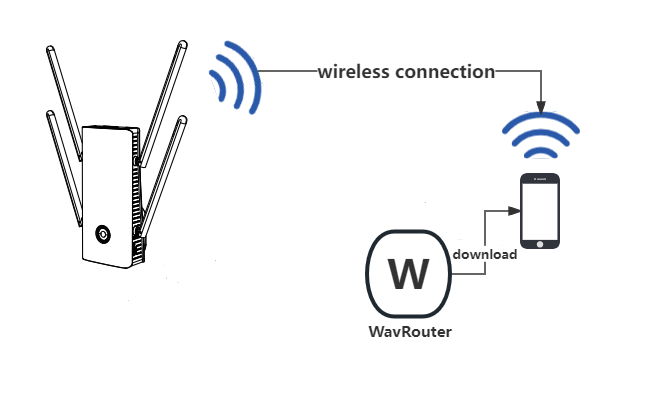
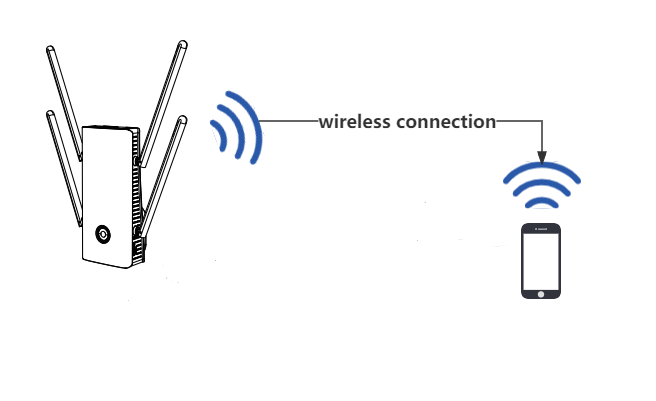
1220 update

Changed region(s): [[0.3049, 0.0898, 0.8841, 0.8379], [0.5793, 0.5686, 0.6707, 0.5985]]

diff --git a/docs/FAQ/indoor_repeater_first_time_setup.md b/docs/FAQ/indoor_repeater_first_time_setup.md
@@ -4,68 +4,13 @@ Here is the first-time wizard for Indoor Repeater. You can refer to this wizard 
 Every product requires initialization settings before use. Before initialization settings, we need to __power on the device__. After powering on, you need to connect the device. The different connection methods are listed below. You can choose any one of them and follow the steps to complete the connection.
 
 !!! note ""
-	=== "WavRouter APP(Phone/Tab)"
+	=== "Phone/Tab"
 		<div style="text-align: center;">
 		<img class="boxshadow" src="/images/indoorphone.png">
 		</div>
 		
-		1 . Scan the QR code on the user manual and __download the WavRouter APP__.
 		
-		2 . After the download is completed, click to __open the WavRouter APP__.
-		
-		<div style="text-align: center;">
-		<img class="boxshadow" src="/images/app001.png">
-		</div>	
-		
-		3 . Click this icon &nbsp;<img class="boxshadow" src="/images/app111.png"> &nbsp;in the upper left corner to open the extension bar, and click __"Login/Registration"__ to enter the login interface.
-		<div style="text-align: center;">
-		<img class="boxshadow" src="/images/app112.png">
-		</div>	
-		<div style="text-align: center;">
-		<img class="boxshadow" src="/images/app002.png">
-		</div>	
-		
-		4 . Click "__Register__" to register a user. There are two ways to register a user. You can choose one of the following to register.
-		!!! note ""
-			=== "Mobile"
-				!!! tip ""
-					Tips : If you have an account, you can click to log in directly.
-				
-				1 . Fill in __your mobile phone number__, click __Get Verification Code__.
-				
-				2 . Fill in the __verification code__ received on your mobile phone in the Verification Code line and __set a login password.__ (it is recommended to use a password with __numbers, uppercase and lowercase letters, and special characters__).
-
-				
-				<div style="text-align: center;">
-				<img class="boxshadow" src="/images/app004.png">
-				</div>	
-
-			=== "E-mail"
-				!!! tip ""
-					Tips : If you have an account, you can click to log in directly.
-	
-				1 . Fill in __your email__, click __Get Verification Code__, 
-				
-				2 . Fill in the __verification code__ received in your email in the Verification Code line and __set a login password__ (it is recommended to use a password with __numbers, uppercase and lowercase letters, and special characters__). 
-				
-				<div style="text-align: center;">
-				<img class="boxshadow" src="/images/app005.png">
-				</div>	
-				
-		5 . After the registration is completed, __log in as the user you just registered__ and click this icon <img class="boxshadow" src="/images/app113.png"> to __return to the main interface__ (as shown below).
-		
-		<div style="text-align: center;">
-		<img class="boxshadow" src="/images/app026.png">
-		</div>
-		<div style="text-align: center;">
-		<img class="boxshadow" src="/images/app025.png">
-		</div>
-		
-		6 .  Click "__Connect__" and it will automatically jump to the WiFi connection interface. You only need to __correctly select your device WiFi__ and __connect__. Like the example below.__(The WiFi name can be found in the user manual or the product bottom label.)__
-		
-		<div style="text-align: center;">
-		<img class="boxshadow" src="/images/app007.png">
-		</div>	
+		1 .  Click Connect and it will automatically jump to the WiFi connection interface. You only need to __correctly select your device WiFi__ and __connect__. Like the example below.__(The WiFi name can be found in the user manual or the product bottom label.)__
 		<div style="text-align: center;">
 		<img class="boxshadow" src="/images/indoor001.png">
 		</div>	
@@ -78,24 +23,24 @@ Every product requires initialization settings before use. Before initialization
 						
 			"XXXX" in SSID is for illustrative purposes only, please refer to the last 4 digits of the MAC address of the label on the bottomof the product.
 
-		7 . After connection, it will __automatically jump__ to the initialization configuration interface.
+		2 . After connection, it will __automatically jump__ to the initialization configuration interface.
 		<div style="text-align: center;">
 		<img class="boxshadow" src="/images/indoor002.png">
 		</div>	
 		
-		8 . Click __"Begin configuration"__ to start the initial configuration of the router.Select the __country and time zone__.
+		3 . Click __"Begin configuration"__ to start the initial configuration of the router.Select the __country and time zone__.
 		
 		<div style="text-align: center;">
 		<img class="boxshadow" src="/images/indoor003.png">
 		</div>	
 		
-		9 . Select a mode for the device. __The default is Repeater Mode__. If you want to choose other modes, please wait __31s__. The following is a list of setting methods for different modes. You can choose any mode you want.
+		4 . Select a mode for the device. __The default is Repeater Mode__. If you want to choose other modes, please wait __31s__. The following is a list of setting methods for different modes. You can choose any mode you want.
 
 		<div style="text-align: center;">
 		<img class="boxshadow" src="/images/indoor004.png">
 		</div>	
 		
-		10 . There are three modes for you to choose from. The Mesh Extender Mode requires no configuration. The device is equivalent to the Mesh Extender Mode in the reset state.
+		5 . There are three modes for you to choose from. The Mesh Extender Mode requires no configuration. The device is equivalent to the Mesh Extender Mode in the reset state.
 		<div style="text-align: center;">
 			<img class="boxshadow" src="/images/indoor024.png">
 		</div>	
@@ -303,7 +248,21 @@ Every product requires initialization settings before use. Before initialization
 		<img class="boxshadow" src="/images/indoor025.png">
 		</div>
 		
-		3 . If you want to change the device mode, you can go to __Advanced > Mode Selection__ and select the mode you want to change.
+		3 . After the initial configuration is refreshed, you need to log in to the management interface again and enter the password you just set to log in.
+		
+		<div style="text-align: center;">
+		<img class="boxshadow" src="/images/indoor012.png">
+		</div>
+		
+		4 . After successful login, you can see the following interface.
+		
+		<div style="text-align: center;">
+		<img class="boxshadow" src="/images/indoor013.png">
+		</div>
+	
+		
+		
+		5 . If you want to change the device mode, you can go to __Advanced > Mode Selection__ and select the mode you want to change.
 		
 		<div style="text-align: center;">
 		<img class="boxshadow" src="/images/indoor026.png">
@@ -311,13 +270,15 @@ Every product requires initialization settings before use. Before initialization
 		<div style="text-align: center;">
 		<img class="boxshadow" src="/images/indoor015.png">
 		</div>
-	=== "Mesh Router Mode"
-		__Mesh Router Mode__  :  Converts a network from a network provider's wired network to a Wi-Fi signal for wireless and wired networking. This mode also supports Mesh networking, which can be set up to pair subroutes to form a networking.
+	=== "Mesh Mode"
+		__Mesh Mode__  :  Converts a network from a network provider's wired network to a Wi-Fi signal for wireless and wired networking. This mode also supports Mesh networking, which can be set up to pair subroutes to form a networking.
 
 	
 		<div style="text-align: center;">
 		<img class="boxshadow" src="/images/indoormesh.png">
 		</div>
+		!!! danger ""
+			__The following are the steps to configure the main route. The sub-route only needs to be in reset state.__
 		
 		1 . After switching to Mesh Router Mode, the __Wan Type__ defaults to __DHCP__ (if you need to use PPPOE and Static IP, you need to set it manually), and set the SSID and password of your WiFi. Click __Save__.(It is recommended that you use a strong password : The password contains uppercase and lowercase letters, numbers, and special symbols such as " __@, ?, *__ ", etc.)		
 		
@@ -330,8 +291,103 @@ Every product requires initialization settings before use. Before initialization
 		<div style="text-align: center;">
 		<img class="boxshadow" src="/images/indoor025.png">
 		</div>
+		
+		3 . After the initial configuration is refreshed, you need to log in to the management interface again and enter the password you just set to log in.
+		
+		<div style="text-align: center;">
+		<img class="boxshadow" src="/images/indoor012.png">
+		</div>
+		
+		4 . After successful login, you can see the following interface.
+		
+		<div style="text-align: center;">
+		<img class="boxshadow" src="/images/indoor013.png">
+		</div>
 
-		3 . If you want to change the device mode, you can go to __Advanced > Mode Selection__ and select the mode you want to change.
+		5 . Mesh pairing. There are two ways to perform mesh pairing. It is recommended that you use the first method for pairing.
+		!!! note ""
+			=== "Mesh button for pairing (highly recommended)"
+				
+				1 . __Power on other Mesh routers__, and other routers must be in __reset state__ (press the reset button for more than six seconds to reset).
+				
+				2 . Press and hold the __"WPS"__ button of the main router for 2s. After pressing, the indicator light of the Mesh route flashes blue slowly.
+				
+				3 . Within 2 minutes, press and hold the __"WPS"__ button of the sub-router for __two seconds__, and after waiting __40-120 seconds__, they will complete pairing independently. (When the device indicator light is __solid blue__, it means pairing is successful.)
+				
+				<div style="text-align: center;">
+				<img alt="wan type" class="boxshadow" src="/images/mesh006.png">
+				</div>
+				
+			=== "Add WEB interface to realize pairing"
+				1 . Enter __" Advanced > Mesh Network "__.							
+				<div style="text-align: center;">
+					<img class="boxshadow" src="/images/indoor027.png">
+				</div>
+			
+				2 . Click on “__Add__” and then follow the prompts on the screen.
+
+
+				<div style="text-align: center;">
+					<img class="boxshadow" src="/images/indoor028.png">
+				</div>
+
+				3 . After ensuring that other Mesh nodes are placed correctly and the __master node network is connected__, click "__Next__" on this page. If the Mesh node is already in use, please __reset__ it.
+
+				<div style="text-align: center;">
+					<img class="boxshadow" src="/images/indoor029.png">
+				</div>
+
+				4 . Make sure that the Mesh node has been powered on. After powering on, __press and hold the WPS button of the mesh device for 2 seconds__.
+
+				<div style="text-align: center;">
+					<img class="boxshadow" src="/images/indoor030.png">
+				</div>
+
+				5 . Click "__Start scanning__" and wait for the scanning results.
+
+				<div style="text-align: center;">
+					<img class="boxshadow" src="/images/indoor031.png">
+				</div>
+
+
+				<p class="text">
+				6 . If the scan is successful, device information will appear. Select the scanned device to add it.
+				</p>
+				<div style="text-align: center;">
+					<img class="boxshadow" src="/images/indoor033.png">
+				</div>
+
+				??? warning "Scan node failed"
+					If no available node routes are scanned, check the following points:
+					
+					- Check whether the Mesh node __presses the pairing button__. After pressing the pairing button, the indicator light of the Mesh node will flash blue slowly.
+					
+					- Check whether the Mesh node has been used. If it has been used, please __reset__ it.
+					
+					- If none of the above problems appear, please click __Rescan__.
+					- After checking, add the device again.
+					
+					<div style="text-align: center;">
+					<img class="boxshadow" src="/images/indoor032.png">
+					</div>
+
+
+				7 . Click Refresh after prompting that the addition is successful and wait for about __two minutes__.
+
+				<div style="text-align: center;">
+					<img class="boxshadow" src="/images/indoor034.png">
+				</div>
+
+				8 . After refreshing, you can view the information of the new device on the add page.If you need to view __the Mesh Topology__, you can click __"Mesh Topology"__ in the upper right corner. If you want to __delete the Extender__, you can also click the __delete option__. As shown below.
+
+				<div style="text-align: center;">
+					<img class="boxshadow" src="/images/indoor035.png">
+				</div>
+				!!! tip
+					A Mesh router device supports up to __7 (including existing device mesh devices)__.
+
+				
+		6 . If you want to change the device mode, you can go to __Advanced > Mode Selection__ and select the mode you want to change.
 		
 		<div style="text-align: center;">
 		<img class="boxshadow" src="/images/indoor026.png">

diff --git a/docs/Products/ax3000/wn583ax3-a/index.md b/docs/Products/ax3000/wn583ax3-a/index.md
@@ -79,9 +79,3 @@ VPN can enhance the security and privacy of home or business networks, providing
  
  
  
- 
- 
- 
- 
- 
- 
